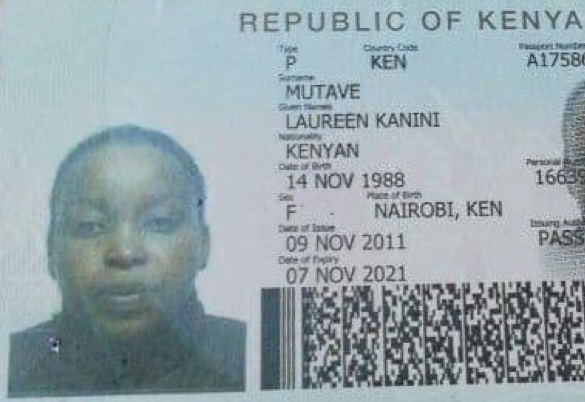
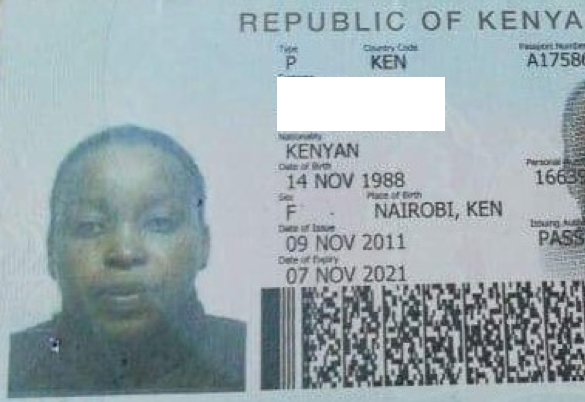
2019 changes pt. 3

Changed region(s): [[0.4615, 0.1791, 0.7692, 0.3284]]

diff --git a/index.html b/index.html
@@ -337,9 +337,9 @@
                 <div class="clearfix"></div>
                 <h2 class="section-heading">Prison Ministry Branch</h2>
                 <p class="lead">Mama Mary has helped hundreds of women in prison.</p>
-                <p>Mama Mary is a poor, uneducated domestic worker in Middle East. She saw many young African women suffer abuse and injustice as domestic workers. She has helped hundreds of women in prison in the Middle East. She helps them process out of prison, helps provide for their needs, visits them while they are in prison, and gets plane tickets for them to go back to their home countries.</p>
+                <p>Mama Mary is a domestic worker in the Middle East. She saw many young African women suffer abuse and injustice as domestic workers. She has helped hundreds of women in prison in the Middle East. She helps them process out of prison, helps provide for their needs, visits them while they are in prison, and gets plane tickets for them to go back to their home countries.</p>
                 <p>The women are in prison because they ran away from their “employers”. They left Africa with the understanding that they would work cleaning homes and being nannies for Middle Eastern families. However, many of them find themselves in abusive situations: passports taken, not allowed to leave the home, physical abuse, sexual abuse, and no pay. Out of desperation they run away from the home. When the police pick them up off the streets, they take women to be held in prison for not having their passports. Then Mama Mary will be notified, and she helps women negotiate with the “employers” for the passports and helps the women get plane tickets back to their countries.</p>
-                <p>Refugee Aid Mission (RAM) helps to provide for the needs of these prisoners and purchase plane tickets for women who are released to leave prison once their plane ticket is purchased. Many women are waiting in the prisons for a plane ticket. Last year RAM purchased five tickets for women in prison who are now in their home countries, women like Laureen.</p>
+                <p>Refugee Aid Mission (RAM) helps to provide for the needs of these prisoners and purchase plane tickets for women who are released to leave prison once their plane ticket is purchased. Many women are waiting in the prisons for a plane ticket. Last year RAM purchased five tickets for women in prison who are now in their home countries.</p>
                 <p class="lead">When you support RAM’s Prison Ministry you help to pay for airplane tickets allowing African women to return home.</p>
                 <p><a type="button" class="btn btn-primary btn-lg" href="https://www.denarionline.com/DONORSERVICES/TEMPLATEPAGE.ASPX?COMP_REF=_GLOBALOUT&DS_GO_REF=CA21B7487F&CONTENT=GOSOLG_NOAUTH" target="_">Support RAM’s Prison Ministry Branch</a></p>
             </div>
